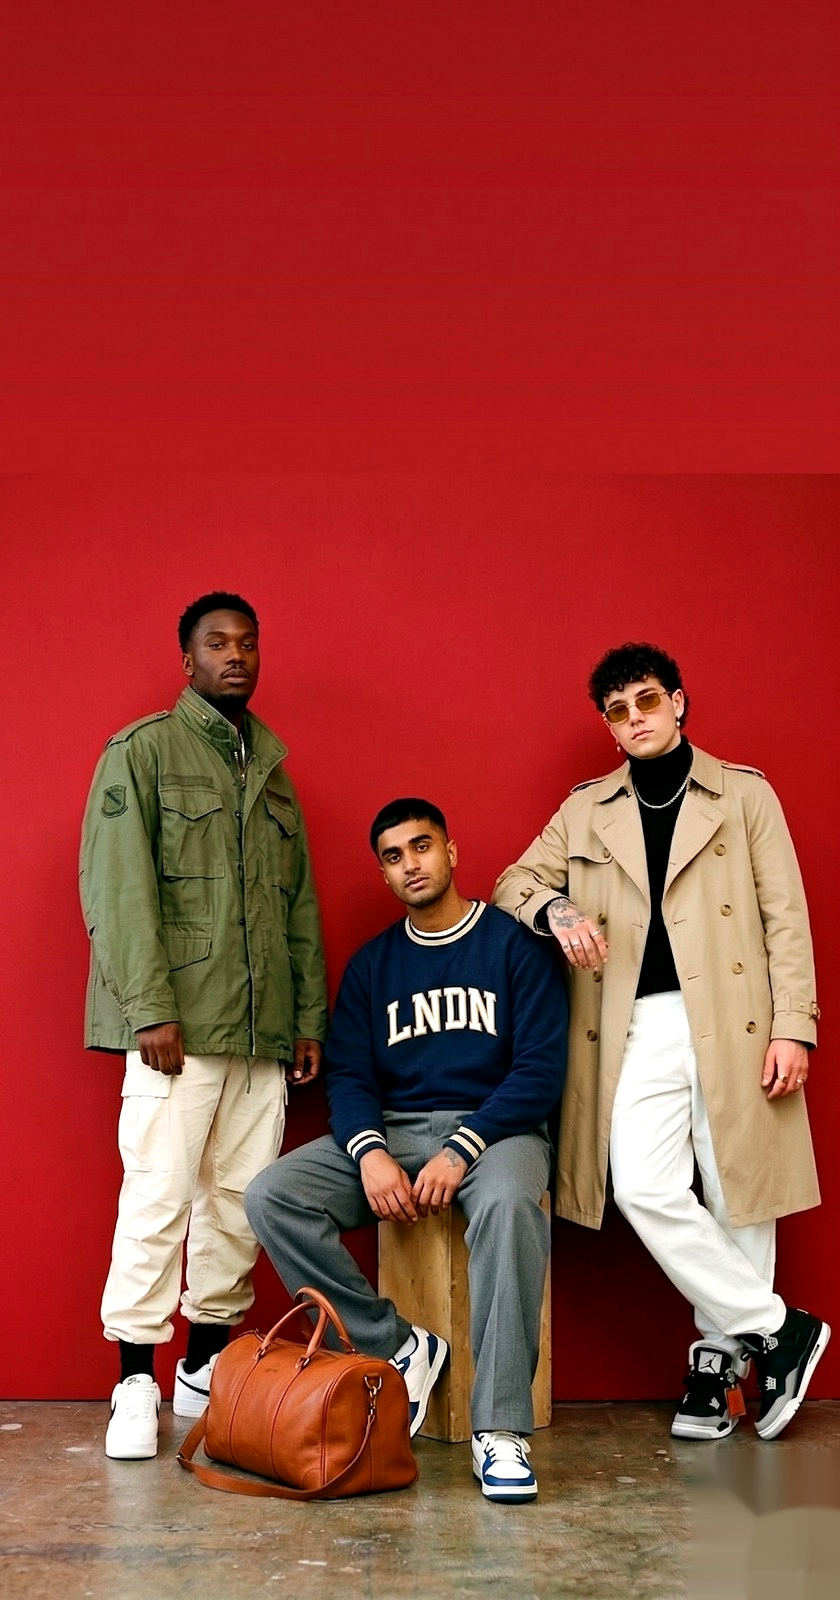
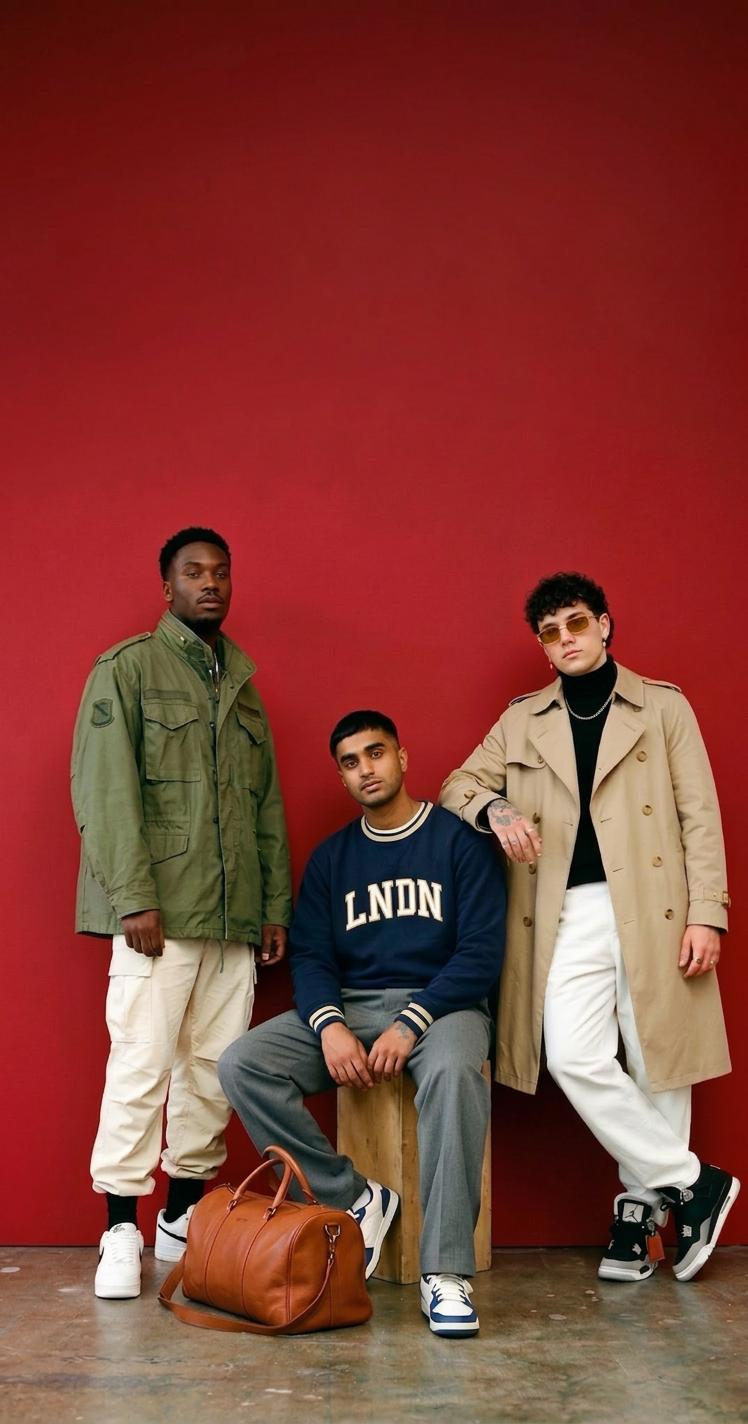
feat: wire Hero-Desktop, Hero-Tablet, and Hero-Mobile in PowerOfChoiceHero section

diff --git a/src/components/PowerOfChoiceHero.jsx b/src/components/PowerOfChoiceHero.jsx
@@ -46,7 +46,7 @@ const PowerOfChoiceHero = () => {
         <div className="relative w-full h-full bg-[#ba1f3e]">
           {/* Mobile Viewport: Centered layout */}
           <img
-            src="/mobile.jpg"
+            src="/Hero-Mobile.jpeg"
             alt="SS'26 Collection Mobile"
             className="block md:hidden w-full h-full object-cover"
             style={{ objectPosition: '50% calc(100% + 0.5in)' }}
@@ -54,14 +54,14 @@ const PowerOfChoiceHero = () => {
           />
           {/* Tablet Viewport: Centered layout */}
           <img
-            src="/tablet.jpg"
+            src="/Hero-Tablet.jpeg"
             alt="SS'26 Collection Tablet"
             className="hidden md:block lg:hidden w-full h-full object-cover object-bottom"
             loading="eager"
           />
           {/* Desktop Viewport: Full-bleed wide layout */}
           <img
-            src="/desktop.jpg"
+            src="/Hero-Desktop.jpeg"
             alt="SS'26 Collection Desktop"
             className="hidden lg:block w-full h-full object-cover object-bottom"
             loading="eager"